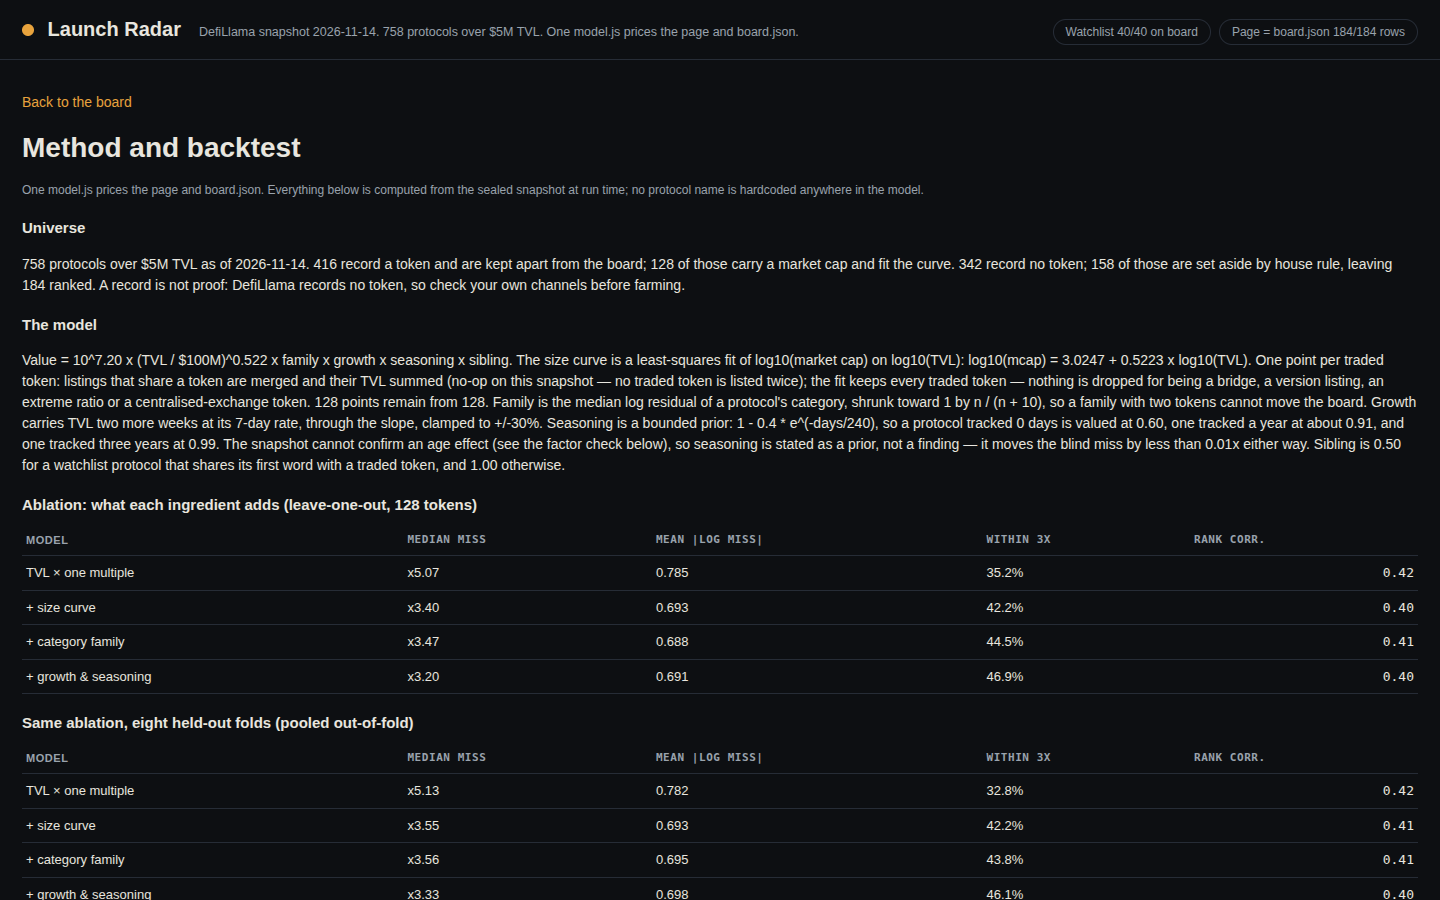
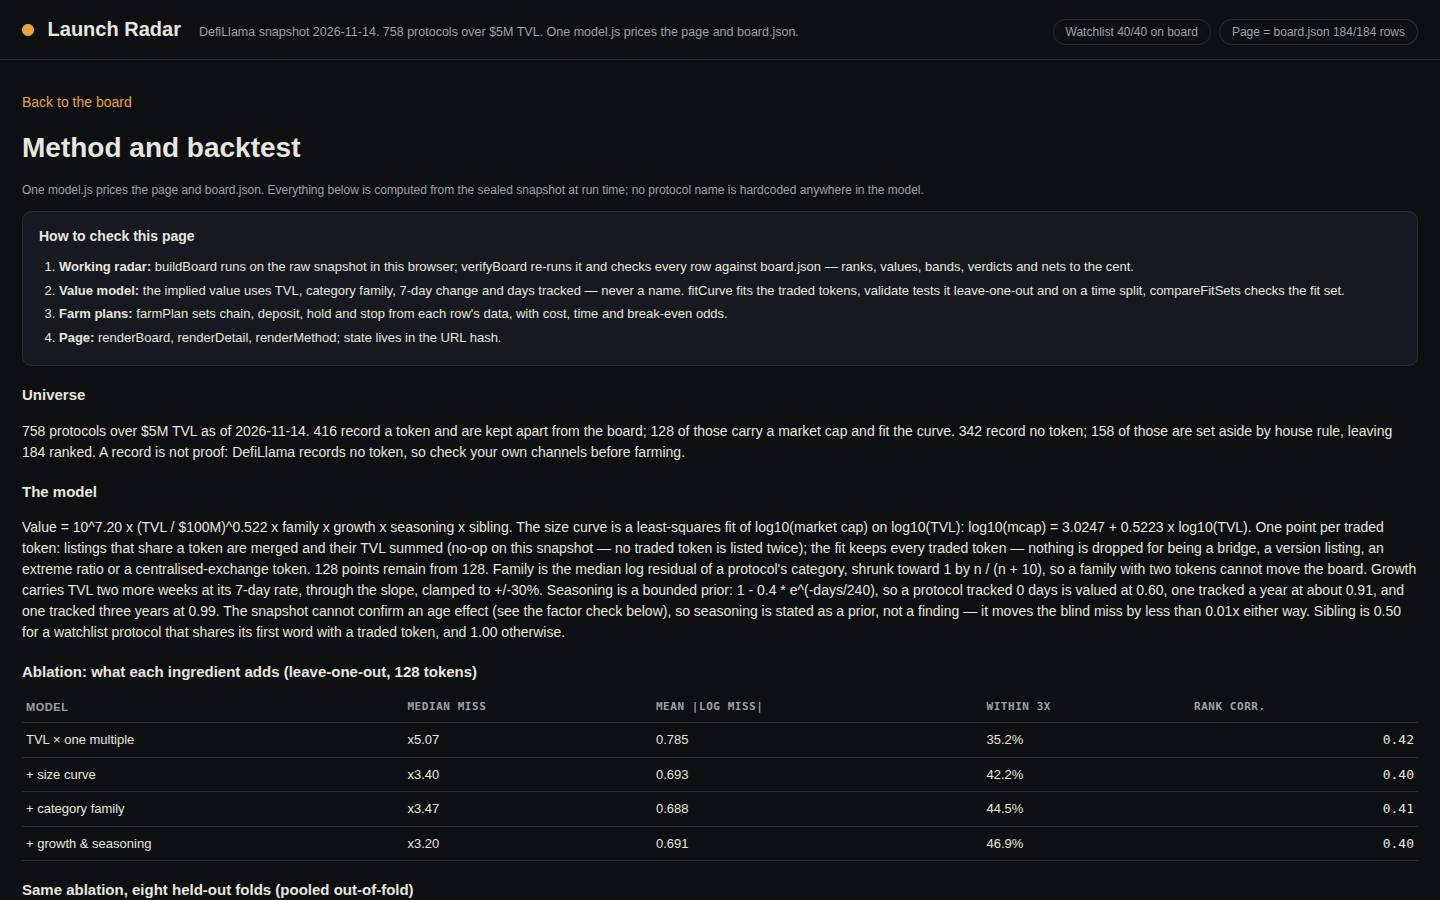
v9: dossier vs top 1 — Worth section, check box, detail timeline + warnings (no model change)

diff --git a/dashboard/app.js b/dashboard/app.js
@@ -383,6 +383,30 @@
     $("board-body").innerHTML = "";
   }
 
+  // Timeline: step numbers on a day-0 → week-6 axis, built from the plan's
+  // own WHEN values. "Weekly ×6" recurs once a week, so it sits in Week 1;
+  // "Any day" is the stop rule, not a date, so it sits apart from the
+  // dated axis and is explained in the legend below it.
+  function timelineHtml(r) {
+    var labels = ["Day 0", "Week 1", "Week 2", "Week 3", "Week 4", "Week 5", "Week 6"];
+    var cells = [[], [], [], [], [], [], []];
+    var any = [];
+    (r.farm_step_when || []).forEach(function (w, i) {
+      var m = /^Day (\d+)$/.exec(w || "");
+      if (m) { var d = parseInt(m[1], 10); cells[d === 0 ? 0 : Math.ceil(d / 7)].push(i + 1); }
+      else if (/Weekly/.test(w || "")) { cells[1].push(i + 1); }
+      else { any.push(i + 1); }
+    });
+    var html = "<div class='timeline'>" + cells.map(function (nums, ci) {
+      return "<div class='tl-cell'><span class='tl-lab'>" + labels[ci] + "</span>" +
+        nums.map(function (n) { return "<span class='tl-num'>" + n + "</span>"; }).join("") + "</div>";
+    }).join("") + "</div>";
+    html += "<p class='fine'>Step 5 repeats once a week for 6 weeks. " +
+      (any.length ? "Step " + any.join(", ") + " has no date — it is the stop rule, any day. " : "") +
+      "Step numbers match the plan below.</p>";
+    return html;
+  }
+
   // ---- detail view ----
   function renderDetail(slug) {
     var r = null;
@@ -426,6 +450,7 @@
       "<tr><td>Break-even odds</td><td>" + (e.odds * 100).toFixed(0) + "% launch chance to cover costs</td></tr>" +
       "</table><p class='fine'>Recomputed on this page: board.json carries the same " + money(r.implied_value_usd) + " at rank " + r.rank + ".</p></div>" +
       '<div class="panel"><h2>Farm plan · ' + esc(r.farm_method) + " on " + esc(r.farm_chain || (r.chains || [])[0] || "") + " · " + money(e.capital) + " for " + D.farmDays + " days</h2>" +
+      timelineHtml(r) +
       "<table class='steps'><tr><th></th><th>When</th><th>Step</th><th>Cost</th><th>Time</th></tr>" + r.farm_steps.map(function (s, i) {
         var gas = (r.fees_usd - 2.10) / 3;
         var costs = [gas + 1.0, 0, gas, 0, 0, 0.05, 0, 0.05, gas + 1.0, 0];
@@ -438,6 +463,10 @@
       'Net per hour = net ' + signed(e.net) + ' / ' + (r.farm_minutes / 60).toFixed(1) + 'h work = <b>' + signed(e.netPerHour) + '/h</b>. ' +
       'A 7-day TVL fall past -30% caps the verdict at marginal; this row is ' + changeText(r) + ' over 7 days.</p>' +
       "<p class='fine'>Fees and gas " + money(r.fees_usd) + " · Income forgone " + money(e.tbill) + " · Your time " + (r.farm_minutes / 60).toFixed(1) + "h · Slice " + money(e.slice) + " · Break-even odds " + (e.odds * 100).toFixed(0) + "% · Net per hour " + signed(e.netPerHour) + "/h</p></div>" +
+      '<div class="panel warn"><h2>Before you farm</h2><p>One wallet only, your own funds — never split a position across wallets. ' +
+      "A token launch is not promised: DefiLlama records no token here, which is not proof there is none, so check your own channels. " +
+      "Claim only through the official domain, never through a link someone sends you. " +
+      "Not financial advice: cost arithmetic and the model's claim.</p></div>" +
       '<div class="panel"><h2>Against traded peers</h2><div id="scatter-detail"></div><p class="fine">' + peerNote + '</p>' +
       "<table class='build'><tr><th>Protocol</th><th class='num'>TVL</th><th class='num'>Market cap</th><th class='num'>Mcap / TVL</th></tr>" + peers.map(function (q) {
         return "<tr><td>" + esc(q.name) + "</td><td class='num'>" + money(q.tvl) + "</td><td class='num'>" + money(q.mcap) + "</td><td class='num'>" + (q.mcap / q.tvl).toFixed(2) + "x</td></tr>";
@@ -475,6 +504,12 @@
     $("method").innerHTML =
       "<h1 style='margin:4px 0'>Method and backtest</h1>" +
       "<p class='fine'>One model.js prices the page and board.json. Everything below is computed from the sealed snapshot at run time; no protocol name is hardcoded anywhere in the model.</p>" +
+      "<div class='panel'><h2>How to check this page</h2><ol class='howto'>" +
+      "<li><b>Working radar:</b> buildBoard runs on the raw snapshot in this browser; verifyBoard re-runs it and checks every row against board.json — ranks, values, bands, verdicts and nets to the cent.</li>" +
+      "<li><b>Value model:</b> the implied value uses TVL, category family, 7-day change and days tracked — never a name. fitCurve fits the traded tokens, validate tests it leave-one-out and on a time split, compareFitSets checks the fit set.</li>" +
+      "<li><b>Farm plans:</b> farmPlan sets chain, deposit, hold and stop from each row's data, with cost, time and break-even odds.</li>" +
+      "<li><b>Page:</b> renderBoard, renderDetail, renderMethod; state lives in the URL hash.</li>" +
+      "</ol></div>" +
       "<h3>Universe</h3><p>" + D.totalProtocols + " protocols over $5M TVL as of " + D.asOf + ". " + D.tradedCount + " record a token and are kept apart from the board; " + D.fitSet.kept + " of those carry a market cap and fit the curve. " + D.preTokenCount + " record no token; " + D.setAsideCount + " of those are set aside by house rule, leaving " + D.rows.length + " ranked. A record is not proof: DefiLlama records no token, so check your own channels before farming.</p>" +
       "<h3>The model</h3><p>Value = 10^" + (Math.log10(D.curve.per100m)).toFixed(2) + " x (TVL / $100M)^" + D.curve.b.toFixed(3) + " x family x growth x seasoning x sibling. " +
       "The size curve is a least-squares fit of log10(market cap) on log10(TVL): log10(mcap) = " + D.curve.a.toFixed(4) + " + " + D.curve.b.toFixed(4) + " x log10(TVL). " +
@@ -508,6 +543,10 @@
       "</table><p class='fine'>The band is wide because launches are genuinely uncertain, and the board shows it instead of hiding it.</p>" +
       "<h3>Factor check</h3><p>The blind residuals correlate r = " + v.factorCheck.corrDays.toFixed(2) + " with log days without a token and r = " + v.factorCheck.corrGrowth.toFixed(2) + " with 7-day TVL change (" + v.factorCheck.n + " tokens with a listing date). The fitted seasoning slope is " + v.factorCheck.seasonSlope.toFixed(2) + " per decade of days — within noise. Neither an age effect nor a leftover momentum effect is confirmed, so seasoning is kept only as a bounded prior and growth is only the two-week carry.</p>" +
       "<h3>Farm verdicts</h3><p>Verdict is break-even odds: (fees + T-bill forgone) / slice — the launch probability the farm needs to cover its costs. <b>Worth farming</b> at break-even odds ≤ 10% (pays if 1 hold in 10 sees a launch), <b>marginal</b> at ≤ 25%, else <b>skip</b>; a 7-day TVL fall past -30% caps the verdict at marginal. Farm economics: up to " + money(D.sliceCapital) + " of capital for " + D.farmDays + " days (a typical points-season window), the deposit scaled to the pool — 1bp of TVL, $500 to $5,000 — T-bill 4% a year less the deposit's 3.5% yield, so only the 0.5% spread is forgone, gas on the cheapest of the protocol's first three chains, a bridge leg each way at $1.00, claim $0.05. The deposit yield is a stated assumption, not a snapshot field: the median large stablecoin pool paid a 4.07% 30-day base APY against a 4.17% T-bill (DeFiLlama Research, 12 Nov 2026), so 3.5% sits below the median and is conservative. The farm is sized at " + money(D.sliceCapital) + " because that is the deployment a points-season farm actually runs; at a $1,000 cap the same rule gives 40 worth, 91 marginal and 53 skip, so the verdict still discriminates, but $5,000 is the calibrated size and the one the published top entry uses. At " + money(D.sliceCapital) + " it gives " + D.counts.farm + " worth, " + D.counts.thin + " marginal and " + D.counts.skip + " skip. Net per hour is net divided by the plan's work hours. Work hours count the steps of a farm that runs to launch — 105 minutes; the stop rule's 15 minutes are not in the total, because a farm that runs to launch never pays them (its exit is the Exit step, paid once either way). The published top entry uses the same convention: its steps sum to 170 minutes and its total reads 155. The board's best on the watchlist is " + D.bestNetPerHour.map(function (r) { return r.name + " " + signed(r.netPerHour) + "/h"; }).join(", ") + ".</p>" +
+      "<h3>Why this board farms more than the published top entry</h3><p>The published top entry farms 57 of 181 at the same $5,000 / 42-day economics; this board farms " + D.counts.farm + " of " + D.rows.length + ". The gap is the output of the stated economics, not a target. Three honest differences drive it. " +
+      "<b>First, cost.</b> This board charges the cheapest gas of a protocol's first three chains plus $1.00 a bridge leg each way, a $0.05 mid-way action and a $0.05 claim — about $2.25 on the cheapest chain — and forgives only the 0.5% spread between the 4% T-bill rate and the deposit's 3.5% yield (the median large stablecoin pool paid a 4.07% 30-day base APY against a 4.17% T-bill, DeFiLlama Research, 12 Nov 2026, so 3.5% sits below the median). The top entry's own printed odds and nets imply fees from $1.96 to $46.92, median $6.09 — and no rule reproduces them: the same dominant chain implies gas from $0.68 to $1.69 on Base and $0.53 to $1.88 on Ethereum, and single-chain rows imply impossible gas (Polygon $3.02, B² $6.32, Bitcoin $14.94). " +
+      "<b>Second, the curve.</b> The refit on all 128 traded tokens validates slightly better than the strict fit on identical folds (blind miss x3.16 against x3.27) and lifts implied values at large TVL, so more slices clear the 10% break-even line. " +
+      "<b>Third, the line itself is crowded:</b> half the board's break-even odds sit within two points of 10% (median 9.1%), so small honest cost differences move many rows across it. The verdict rule is the same on both boards (break-even odds ≤10% worth, ≤25% marginal, a 7-day fall past −30% caps at marginal). Nothing here was tuned to reach 57.</p>" +
       "<h3>Set aside by house rule</h3><table class='build'>" + setAsideRows + "<tr class='total'><td>Total set aside</td><td>" + D.setAsideCount + "</td></tr></table>" +
       "<p class='fine'>" + D.setAsideCount + " protocols never reach the board: category CEX, Bridge, Canonical Bridge, Liquid Staking, Liquid Restaking or Restaked BTC; a name carrying a whole word wrapped, staked or staking; a name ending in a version marker; a name beginning with an exchange; a name whose first word is one of its own chains — the chain's own product, whose token (if any) is the chain's token; or a name sharing its first word with a token that already trades. A protocol matching two rules is counted under the first. The watchlist is never set aside for its name: " + D.siblingHalf + " watchlist sibling stays on the board at half value. A wrapped or staked product of a token that already trades is not a token that does not exist yet.</p>" +
       "<h3>board.json = this page</h3><p>" + esc(verify.text) + "</p>" +

diff --git a/dashboard/app.css b/dashboard/app.css
@@ -82,6 +82,15 @@ table.board{width:100%;border-collapse:collapse;font-size:13px}
 .sens th.base,.sens td.base{background:#232830;font-weight:700}
 .sens th:first-child,.sens td:first-child{text-align:left;font-family:inherit}
 .grid2{display:grid;grid-template-columns:1fr 1.6fr;gap:16px;margin:14px 0}
+.howto{margin:4px 0 0;padding-left:20px;font-size:13px}
+.howto li{margin-bottom:4px}
+.timeline{display:flex;gap:6px;margin:10px 0 4px}
+.tl-cell{flex:1;border-top:2px solid var(--line);padding:6px 2px 0;text-align:center;min-height:48px}
+.tl-lab{display:block;font-size:11px;color:var(--muted);margin-bottom:5px}
+.tl-num{display:inline-block;width:22px;height:22px;line-height:22px;border-radius:50%;background:var(--amber);color:#141414;font-size:12px;font-weight:700;margin:0 2px}
+.warn{border-left:3px solid var(--amber)}
+.warn h2{margin-bottom:6px}
+.warn p{margin:0;font-size:13px}
 h3{margin:18px 0 8px;font-size:15px}
 .mono{font-family:var(--mono)}
 footer{padding:0 22px 26px;color:var(--muted);font-size:12px;max-width:1440px;margin:0 auto}
